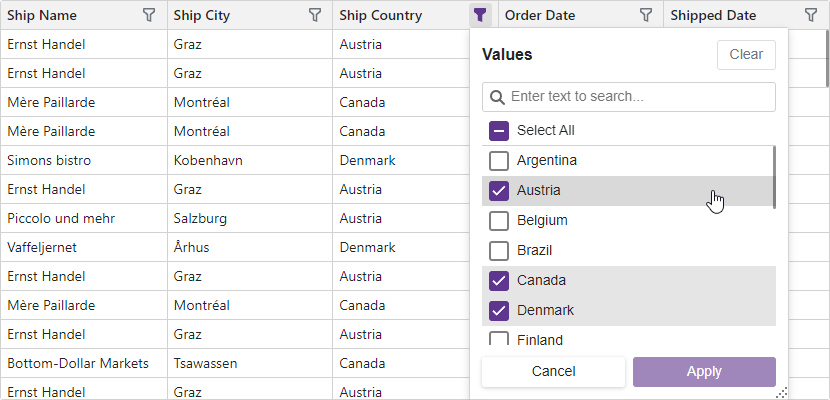
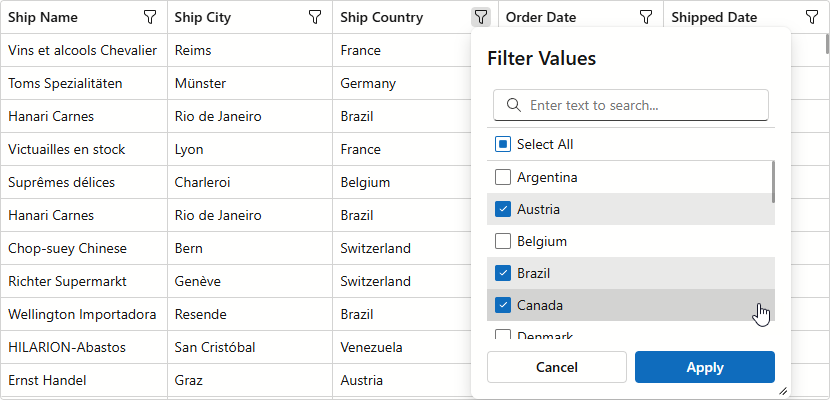
update to v25.1

diff --git a/CS/BindGridToLargeData/Components/Layout/MainLayout.razor.css b/CS/BindGridToLargeData/Components/Layout/MainLayout.razor.css
@@ -1,37 +1,6 @@
-.page {
+.page {
     height: 100%;
-    font-family: var(--bs-font-sans-serif);
-}
-
-::deep .navigation-drawer > .dxbl-drawer-panel {
-    background-image: linear-gradient(180deg, var(--bs-primary) 0%, var(--bs-black) 150%);
-}
-
-::deep .dxbl-drawer .dxbl-drawer-content {
-    height: 100vh;
-    overflow: auto;
-}
-
-::deep .dxbl-drawer > .dxbl-drawer-panel .dxbl-drawer-header {
-    border-bottom: none;
-    padding: 2rem 1rem;
-}
-
-::deep .dxbl-drawer-panel .dxbl-drawer-header .navigation-drawer-header {
-    width: 100%;
-    display: flex;
-    justify-content: space-between;
-}
-
-::deep .dxbl-drawer > .dxbl-drawer-panel > .dxbl-drawer-body {
-    --dxbl-drawer-panel-body-padding-x: 0;
-    --dxbl-drawer-panel-body-padding-y: 1rem;
-}
-
-::deep .dxbl-drawer > .dxbl-drawer-panel .dxbl-drawer-footer {
-    --dxbl-drawer-panel-footer-justify-content: center;
-    border-top: none;
-    padding-bottom: 1.5rem;
+    font-family: var(--bs-font-sans-serif, var(--DS-font-family-sans-serif));
 }
 
 ::deep .content {
@@ -40,61 +9,36 @@
     flex-direction: column;
 }
 
-::deep .icon {
-    -webkit-mask-repeat: no-repeat;
-    mask-repeat: no-repeat;
-    mask-position: center center;
-    -webkit-mask-mask-position: center center;
-    width: 1rem;
-    height: 1rem;
-    background-repeat: no-repeat;
-    background-color: var(--dxbl-btn-color);
-}
-
 ::deep .icon-back {
-    -webkit-mask-image: url("images/back.svg");
-    mask-image: url("images/back.svg");
+    --icon-mask-image: var(--icon-back-mask-image);
 }
 
 ::deep .icon-close {
-    -webkit-mask-image: url("images/close.svg");
-    mask-image: url("images/close.svg");
+    --icon-mask-image: var(--icon-close-mask-image);
 }
 
 ::deep .icon-menu {
-    -webkit-mask-image: url("images/menu.svg");
-    mask-image: url("images/menu.svg");
+    --icon-mask-image: var(--icon-menu-mask-image);
 }
 
 ::deep .icon-log-in {
-    -webkit-mask-image: url("images/account/log-in.svg");
-    mask-image: url("images/account/log-in.svg");
+    --icon-mask-image: var(--icon-log-in-mask-image);
 }
 
 ::deep .icon-log-out {
-    -webkit-mask-image: url("images/account/log-out.svg");
-    mask-image: url("images/account/log-out.svg");
+    --icon-mask-image: var(--icon-log-out-mask-image);
 }
 
 ::deep .icon-user {
-    -webkit-mask-image: url("images/account/user.svg");
-    mask-image: url("images/account/user.svg");
+    --icon-mask-image: var(--icon-user-mask-image);
 }
 
 ::deep .docs-icon {
-    mask-image: url("images/doc.svg");
-    -webkit-mask-image: url("images/doc.svg");
-    -webkit-mask-repeat: no-repeat;
-    mask-repeat: no-repeat;
-    background-color: var(--dxbl-btn-color);
+    --icon-mask-image: var(--icon-docs-mask-image);
 }
 
 ::deep .demos-icon {
-    mask-image: url("images/demos.svg");
-    -webkit-mask-image: url("images/demos.svg");
-    -webkit-mask-repeat: no-repeat;
-    mask-repeat: no-repeat;
-    background-color: var(--dxbl-btn-color);
+    --icon-mask-image: var(--icon-demos-mask-image);
 }
 
 ::deep .footer-button:hover .demos-icon {
@@ -137,29 +81,3 @@
         --dxbl-btn-padding-x: 0.75rem;
         --dxbl-btn-padding-y: 0.25rem;
     }
-
-::deep .navigation-drawer > .dxbl-drawer-panel {
-    display: flex;
-}
-
-::deep .navigation-drawer.mobile > .dxbl-drawer-panel {
-    display: none;
-}
-
-::deep .navigation-drawer.mobile > .dxbl-drawer-shading {
-    display: none;
-}
-
-@media (max-width: 768px) {
-    ::deep .navigation-drawer > .dxbl-drawer-panel {
-        display: none;
-    }
-
-    ::deep .navigation-drawer.mobile > .dxbl-drawer-panel {
-        display: flex;
-    }
-
-    ::deep .navigation-drawer.mobile > .dxbl-drawer-shading {
-        display: block;
-    }
-}

diff --git a/CS/BindGridToLargeData/Components/Layout/Drawer.razor.css b/CS/BindGridToLargeData/Components/Layout/Drawer.razor.css
@@ -1,7 +1,66 @@
-::deep .navigation-drawer {
+::deep .navigation-drawer {
     --dxbl-drawer-panel-footer-justify-content: center;
     height: 100vh;
     max-height: 100%;
+}
+
+    ::deep .navigation-drawer > .dxbl-drawer-panel {
+        background-image: linear-gradient(180deg, var(--bs-primary, var(--DS-primary-90)) 0%, var(--bs-black, #000) 150%);
+    }
+
+    ::deep .navigation-drawer > .dxbl-drawer-content {
+        height: 100vh;
+        overflow: auto;
+    }
+
+    ::deep .navigation-drawer > .dxbl-drawer-panel > .dxbl-drawer-header {
+        border-bottom: none;
+        padding: 2rem 1rem;
+        background: none;
+    }
+
+        ::deep .navigation-drawer > .dxbl-drawer-panel > .dxbl-drawer-header > .navigation-drawer-header {
+            width: 100%;
+            display: flex;
+            justify-content: space-between;
+        }
+
+    ::deep .navigation-drawer > .dxbl-drawer-panel > .dxbl-drawer-body {
+        --dxbl-drawer-panel-body-padding-x: 0;
+        --dxbl-drawer-panel-body-padding-y: 1rem;
+    }
+
+    ::deep .navigation-drawer > .dxbl-drawer-panel > .dxbl-drawer-footer {
+        --dxbl-drawer-panel-footer-justify-content: center;
+        border-top: none;
+        padding-bottom: 1.5rem;
+        background: none;
+    }
+
+    ::deep .navigation-drawer > .dxbl-drawer-panel {
+        display: flex;
+    }
+
+    ::deep .navigation-drawer.mobile > .dxbl-drawer-panel {
+        display: none;
+    }
+
+    ::deep .navigation-drawer.mobile > .dxbl-drawer-shading {
+        display: none;
+    }
+
+@media (max-width: 768px) {
+    ::deep .navigation-drawer > .dxbl-drawer-panel {
+        display: none;
+    }
+
+    ::deep .navigation-drawer.mobile > .dxbl-drawer-panel {
+        display: flex;
+    }
+
+    ::deep .navigation-drawer.mobile > .dxbl-drawer-shading {
+        display: block;
+    }
 }
 
 ::deep .panel-open:not(.mobile) .menu-button {

diff --git a/CS/BindGridToLargeData/Components/Layout/NavMenu.razor.css b/CS/BindGridToLargeData/Components/Layout/NavMenu.razor.css
@@ -1,4 +1,4 @@
-#sidebar {
+#sidebar {
     min-width: 15rem;
     max-width: 15rem;
     transition: transform 0.1s ease-out;
@@ -21,6 +21,10 @@
 }
 
 ::deep .menu {
+    --dxbl-menu-bottom-left-border-radius: 0;
+    --dxbl-menu-bottom-right-border-radius: 0;
+    --dxbl-menu-top-left-border-radius: 0;
+    --dxbl-menu-top-right-border-radius: 0;
     background-color: inherit;
 }
 
@@ -29,43 +33,39 @@
     }
 
 ::deep .menu-item {
-    color: var(--bs-white);
+    color: var(--bs-white, #fff);
 }
 
 ::deep .icon {
-    width: 1rem;
-    height: 1rem;
-    background-position: center;
-    background-repeat: no-repeat;
     margin-left: 0.5rem;
 }
 
 ::deep .home-icon {
-    background-image: url("images/home.svg");
+    --icon-mask-image: var(--icon-home-mask-image);
 }
 
 ::deep .weather-icon {
-    background-image: url("images/weather.svg");
+    --icon-mask-image: var(--icon-weather-mask-image);
 }
 
 ::deep .counter-icon {
-    background-image: url("images/counter.svg");
+    --icon-mask-image: var(--icon-counter-mask-image);
 }
 
 ::deep .settings-icon {
-    background-image: url("images/account/settings.svg");
+    --icon-mask-image: var(--icon-settings-mask-image);
 }
 
 ::deep .log-in-icon {
-    background-image: url("images/account/log-in.svg");
+    --icon-mask-image: var(--icon-log-in-mask-image);
 }
 
 ::deep .log-out-icon {
-    background-image: url("images/account/log-out.svg");
+    --icon-mask-image: var(--icon-log-out-mask-image);
 }
 
 ::deep .user-icon {
-    background-image: url("images/account/user.svg");
+    --icon-mask-image: var(--icon-user-mask-image);
 }
 
 @media (max-width: 768px) {

diff --git a/CS/BindGridToLargeData/wwwroot/css/theme-fluent.css b/CS/BindGridToLargeData/wwwroot/css/theme-fluent.css
@@ -1,0 +1,42 @@
+body {
+    margin: 0;
+}
+
+
+.w-100 {
+    width: 100%;
+}
+
+.text-danger {
+    color: var(--DS-color-surface-danger-default-rest);
+}
+
+.p-4 {
+    padding: 1.5rem;
+}
+
+.navigation-drawer {
+    --dxbl-drawer-separator-border-width: 0;
+}
+
+.menu-item {
+    --dxbl-menu-item-color: #fff;
+    --dxbl-menu-item-image-color: #fff;
+}
+
+[data-fluent-darkmode] .dxbl-theme-fluent .welcome-card {
+    color: var(--DS-primary-70);
+}
+
+.icon {
+    --icon-width: 1.25rem;
+    --icon-height: 1.25rem;
+    --icon-back-mask-image: url("/images/back-fluent.svg");
+    --icon-close-mask-image: url("/images/close-fluent.svg");
+    --icon-menu-mask-image: url("/images/menu-fluent.svg");
+    --icon-docs-mask-image: url("/images/doc-fluent.svg");
+    --icon-demos-mask-image: url("/images/demos-fluent.svg");
+    --icon-home-mask-image: url("/images/home-fluent.svg");
+    --icon-weather-mask-image: url("/images/weather-fluent.svg");
+    --icon-counter-mask-image: url("/images/counter-fluent.svg");
+    }

diff --git a/CS/BindGridToLargeData/wwwroot/css/site.css b/CS/BindGridToLargeData/wwwroot/css/site.css
@@ -56,7 +56,7 @@ html, body {
     .title.title-secondary {
         padding-top: 0.313rem;
         padding-bottom: 0;
-        color: var(--bs-secondary-color);
+        color: var(--bs-secondary-color, var(--DS-color-content-neutral-default-rest));
     }
 
 .title-header-text {
@@ -89,4 +89,15 @@ html, body {
     flex-direction: column;
     gap: 0.625rem;
     max-width: 100%;
+}
+
+.icon {
+    width: var(--icon-width);
+    height: var(--icon-height);
+    background-color: currentcolor;
+    mask-position: center center;
+    -webkit-mask-repeat: no-repeat;
+    mask-repeat: no-repeat;
+    -webkit-mask-image: var(--icon-mask-image);
+    mask-image: var(--icon-mask-image);
 }
